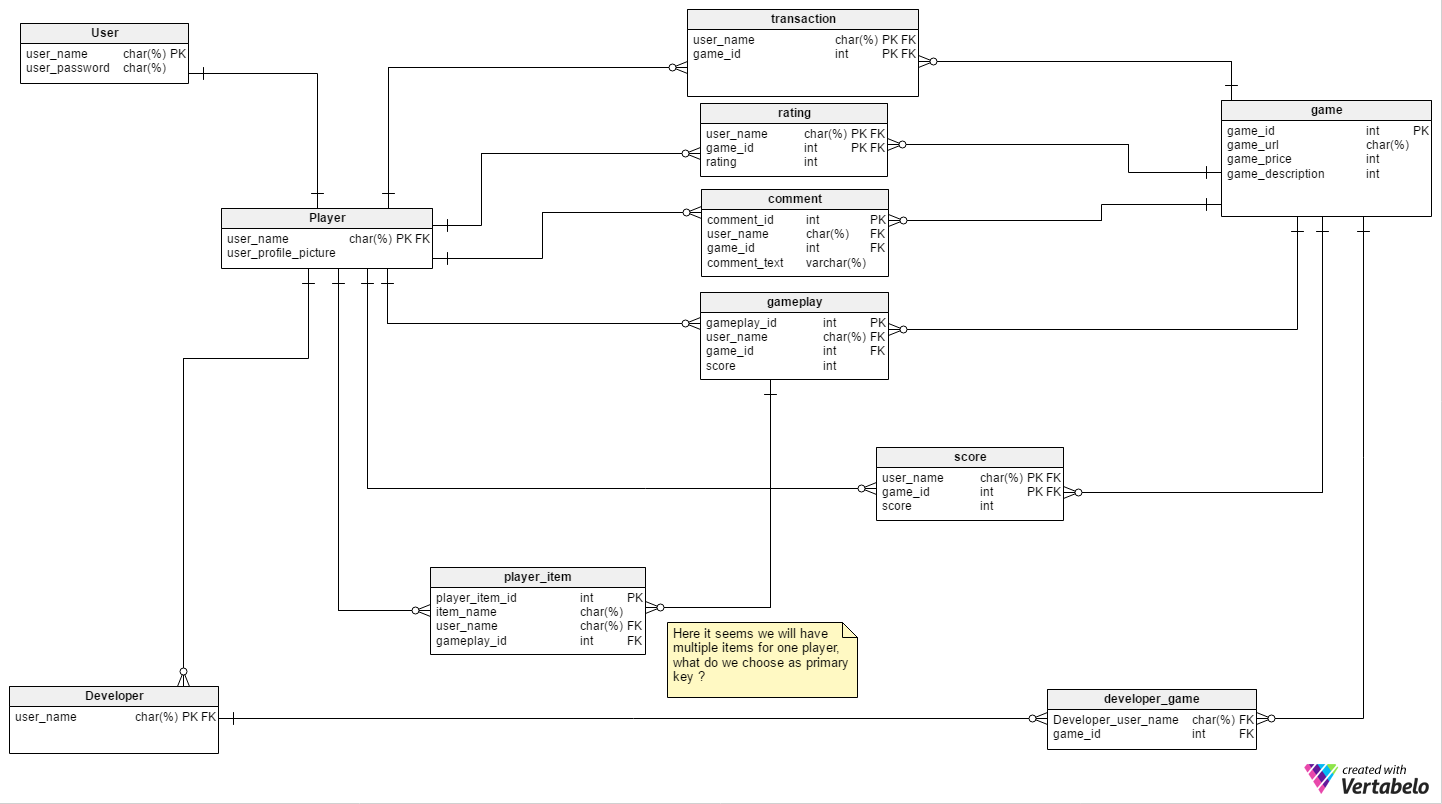
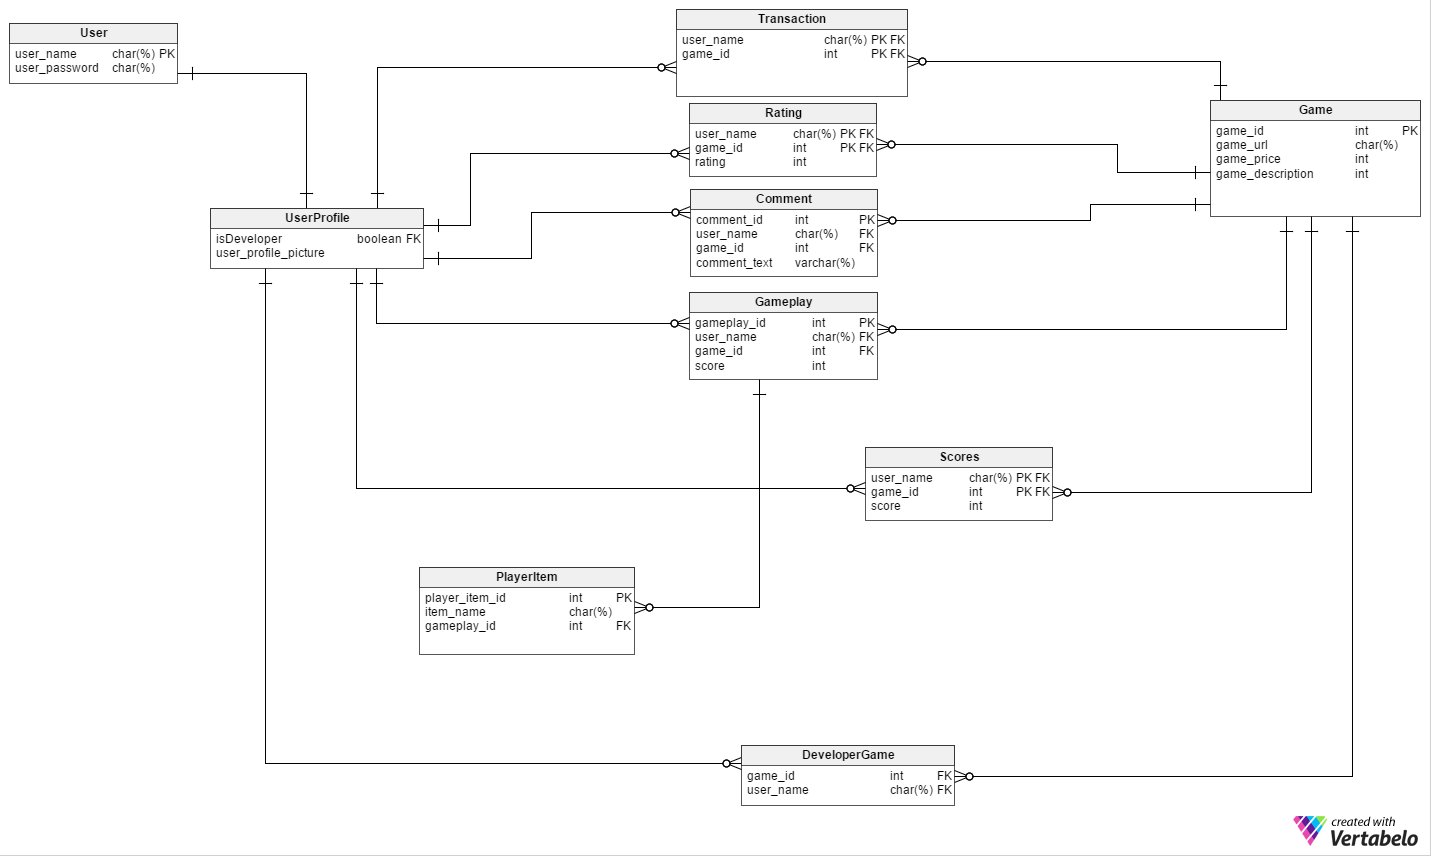
Sharbel Models updated

diff --git a/awsomeProject/awsomeProject/migrations/0006_auto_20170127_1851.py b/awsomeProject/awsomeProject/migrations/0006_auto_20170127_1851.py
@@ -1,0 +1,136 @@
+# -*- coding: utf-8 -*-
+# Generated by Django 1.10.4 on 2017-01-27 16:51
+from __future__ import unicode_literals
+
+from django.conf import settings
+from django.db import migrations, models
+import django.db.models.deletion
+
+
+class Migration(migrations.Migration):
+
+    dependencies = [
+        migrations.swappable_dependency(settings.AUTH_USER_MODEL),
+        ('awsomeProject', '0005_auto_20170126_1349'),
+    ]
+
+    operations = [
+        migrations.CreateModel(
+            name='Comment',
+            fields=[
+                ('id', models.AutoField(auto_created=True, primary_key=True, serialize=False, verbose_name='ID')),
+                ('commentText', models.TextField()),
+            ],
+        ),
+        migrations.CreateModel(
+            name='DeveloperGame',
+            fields=[
+                ('id', models.AutoField(auto_created=True, primary_key=True, serialize=False, verbose_name='ID')),
+            ],
+        ),
+        migrations.CreateModel(
+            name='Gameplay',
+            fields=[
+                ('id', models.AutoField(auto_created=True, primary_key=True, serialize=False, verbose_name='ID')),
+                ('score', models.FloatField()),
+            ],
+        ),
+        migrations.CreateModel(
+            name='PlayerItem',
+            fields=[
+                ('id', models.AutoField(auto_created=True, primary_key=True, serialize=False, verbose_name='ID')),
+                ('itemName', models.CharField(max_length=255)),
+                ('gameplay', models.ForeignKey(on_delete=django.db.models.deletion.CASCADE, to='awsomeProject.Gameplay')),
+            ],
+        ),
+        migrations.CreateModel(
+            name='Rating',
+            fields=[
+                ('id', models.AutoField(auto_created=True, primary_key=True, serialize=False, verbose_name='ID')),
+                ('rating', models.IntegerField()),
+            ],
+        ),
+        migrations.CreateModel(
+            name='Transaction',
+            fields=[
+                ('id', models.AutoField(auto_created=True, primary_key=True, serialize=False, verbose_name='ID')),
+            ],
+        ),
+        migrations.CreateModel(
+            name='UserProfile',
+            fields=[
+                ('id', models.AutoField(auto_created=True, primary_key=True, serialize=False, verbose_name='ID')),
+                ('isDeveloper', models.BooleanField()),
+                ('user', models.OneToOneField(on_delete=django.db.models.deletion.CASCADE, to=settings.AUTH_USER_MODEL)),
+            ],
+        ),
+        migrations.DeleteModel(
+            name='Product',
+        ),
+        migrations.AddField(
+            model_name='game',
+            name='description',
+            field=models.TextField(default=''),
+        ),
+        migrations.AddField(
+            model_name='game',
+            name='price',
+            field=models.FloatField(default=1),
+            preserve_default=False,
+        ),
+        migrations.AlterField(
+            model_name='scores',
+            name='user',
+            field=models.ForeignKey(on_delete=django.db.models.deletion.CASCADE, to='awsomeProject.UserProfile'),
+        ),
+        migrations.AddField(
+            model_name='transaction',
+            name='game',
+            field=models.ForeignKey(on_delete=django.db.models.deletion.CASCADE, to='awsomeProject.Game'),
+        ),
+        migrations.AddField(
+            model_name='transaction',
+            name='user',
+            field=models.ForeignKey(on_delete=django.db.models.deletion.CASCADE, to='awsomeProject.UserProfile'),
+        ),
+        migrations.AddField(
+            model_name='rating',
+            name='game',
+            field=models.ForeignKey(on_delete=django.db.models.deletion.CASCADE, to='awsomeProject.Game'),
+        ),
+        migrations.AddField(
+            model_name='rating',
+            name='user',
+            field=models.ForeignKey(on_delete=django.db.models.deletion.CASCADE, to='awsomeProject.UserProfile'),
+        ),
+        migrations.AddField(
+            model_name='gameplay',
+            name='game',
+            field=models.ForeignKey(on_delete=django.db.models.deletion.CASCADE, to='awsomeProject.Game'),
+        ),
+        migrations.AddField(
+            model_name='gameplay',
+            name='user',
+            field=models.ForeignKey(on_delete=django.db.models.deletion.CASCADE, to='awsomeProject.UserProfile'),
+        ),
+        migrations.AddField(
+            model_name='developergame',
+            name='game',
+            field=models.ForeignKey(on_delete=django.db.models.deletion.CASCADE, to='awsomeProject.Game'),
+        ),
+        migrations.AddField(
+            model_name='developergame',
+            name='user',
+            field=models.ForeignKey(on_delete=django.db.models.deletion.CASCADE, to='awsomeProject.UserProfile'),
+        ),
+        migrations.AddField(
+            model_name='comment',
+            name='game',
+            field=models.ForeignKey(on_delete=django.db.models.deletion.CASCADE, to='awsomeProject.Game'),
+        ),
+        migrations.AddField(
+            model_name='comment',
+            name='user',
+            field=models.ForeignKey(on_delete=django.db.models.deletion.CASCADE, to='awsomeProject.UserProfile'),
+        ),
+    ]

diff --git a/awsomeProject/awsomeProject/models.py b/awsomeProject/awsomeProject/models.py
@@ -1,24 +1,48 @@
 from django.db import models
 from django.contrib.auth.models import User
+#from django.contrib.auth.models import AbstractUser
 
-class Product(models.Model):
-    title = models.CharField(max_length=255)
+class UserProfile(models.Model):
+    #TODO add profilePicture attribute
+    user = models.OneToOneField(User, on_delete=models.CASCADE)
+    isDeveloper = models.BooleanField()
 
 class Game(models.Model):
     name = models.CharField(max_length=255, unique=True)
     url = models.URLField()
+    price = models.FloatField()
+    description = models.TextField(default='')
+
+class DeveloperGame(models.Model):
+    user = models.ForeignKey('UserProfile', on_delete=models.CASCADE) #on_delete=models.CASCADE deletes the entries if the entry in the UserProfile table gets deleed
+    game = models.ForeignKey('Game', on_delete=models.CASCADE)
+
 
 class Scores(models.Model):
-    user = models.ForeignKey(User, on_delete=models.CASCADE)
+    user = models.ForeignKey('UserProfile', on_delete=models.CASCADE)
     game = models.ForeignKey('Game', on_delete=models.CASCADE)
     score = models.FloatField()
 
 class Gameplay(models.Model):
     #TODO: user and game should be unique as combination if possible
-    user = models.ForeignKey(User, on_delete=models.CASCADE)
+    user = models.ForeignKey('UserProfile', on_delete=models.CASCADE)
     score = models.FloatField()
     game = models.ForeignKey('Game', on_delete=models.CASCADE)
 
 class PlayerItem(models.Model):
     gameplay = models.ForeignKey('Gameplay', on_delete=models.CASCADE)
     itemName = models.CharField(max_length=255)
+
+class Comment(models.Model):
+    user = models.ForeignKey('UserProfile', on_delete = models.CASCADE)
+    game = models.ForeignKey('Game', on_delete = models.CASCADE)
+    commentText = models.TextField()
+
+class Rating(models.Model):
+    user = models.ForeignKey('UserProfile', on_delete = models.CASCADE)
+    game = models.ForeignKey('Game', on_delete = models.CASCADE)
+    rating = models.IntegerField()
+
+class Transaction(models.Model):
+    user = models.ForeignKey('UserProfile', on_delete = models.CASCADE)
+    game = models.ForeignKey('Game', on_delete = models.CASCADE)

diff --git a/awsomeProject/awsomeProject/views.py b/awsomeProject/awsomeProject/views.py
@@ -1,7 +1,6 @@
 from django.http import HttpResponse
 from django.shortcuts import render
 from django.http import Http404
-from .models import Product
 from .models import Game
 from .models import Scores
 from .files import *
@@ -14,11 +13,8 @@ from django.template import RequestContext
 import json
 #@login_required
 def index(request):
-    if not Product.objects.filter(pk=1).exists():
-        data = Product(title="Panda")
-        data.save()
-    return render(request, "index.html", {"title" : Product.objects.values('title').filter(pk=1)[0]['title']})
-
+    return render(request, "index.html", {})
+    
 @login_required
 def game(request, game_name):
     try:

diff --git a/awsomeProject/awsomeProject/settings.py b/awsomeProject/awsomeProject/settings.py
@@ -12,6 +12,10 @@ https://docs.djangoproject.com/en/1.9/ref/settings/
 import os
 import dj_database_url
 
+
+# Added this line because we extended the User Model in models.py
+#AUTH_USER_MODEL = "UserProfile"
+
 # Build paths inside the project like this: os.path.join(BASE_DIR, ...)
 BASE_DIR = os.path.dirname(os.path.dirname(os.path.abspath(__file__)))
 PROJECT_ROOT = os.path.dirname(os.path.abspath(__file__))

diff --git a/awsomeProject/awsomeProject/__init__.py b/awsomeProject/awsomeProject/__init__.py
@@ -1,0 +1,1 @@
+#from .models import *
